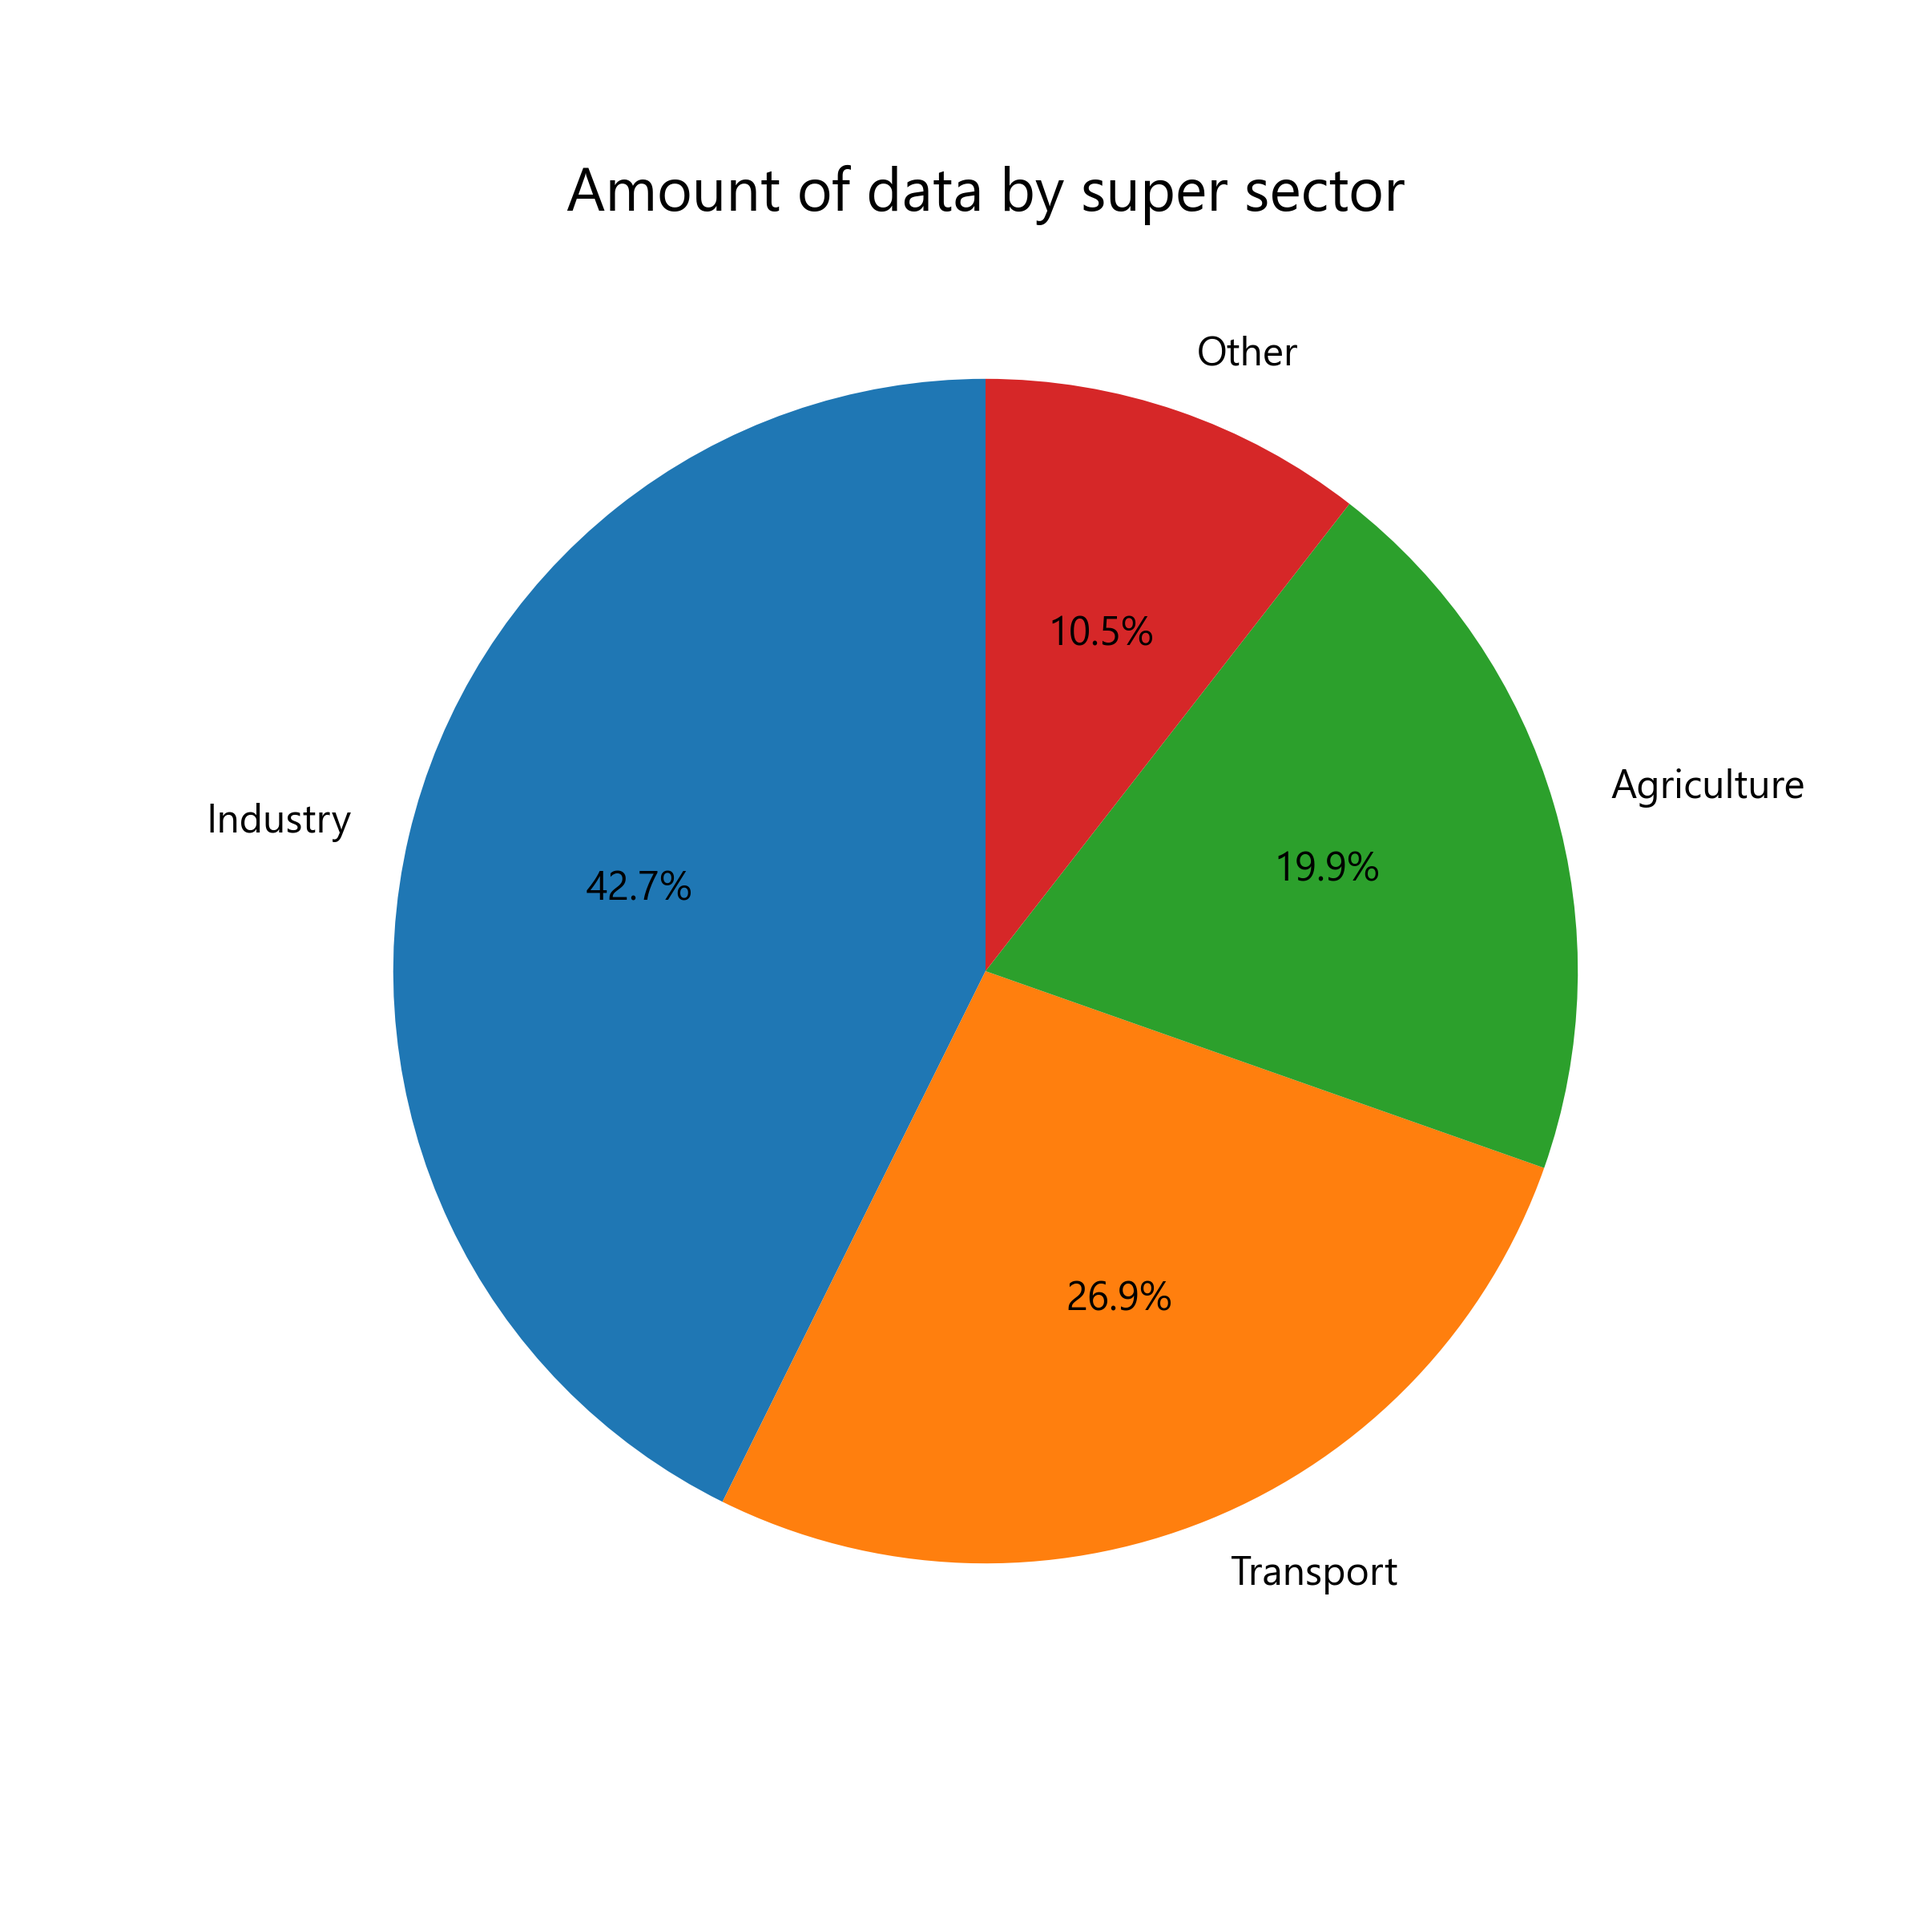
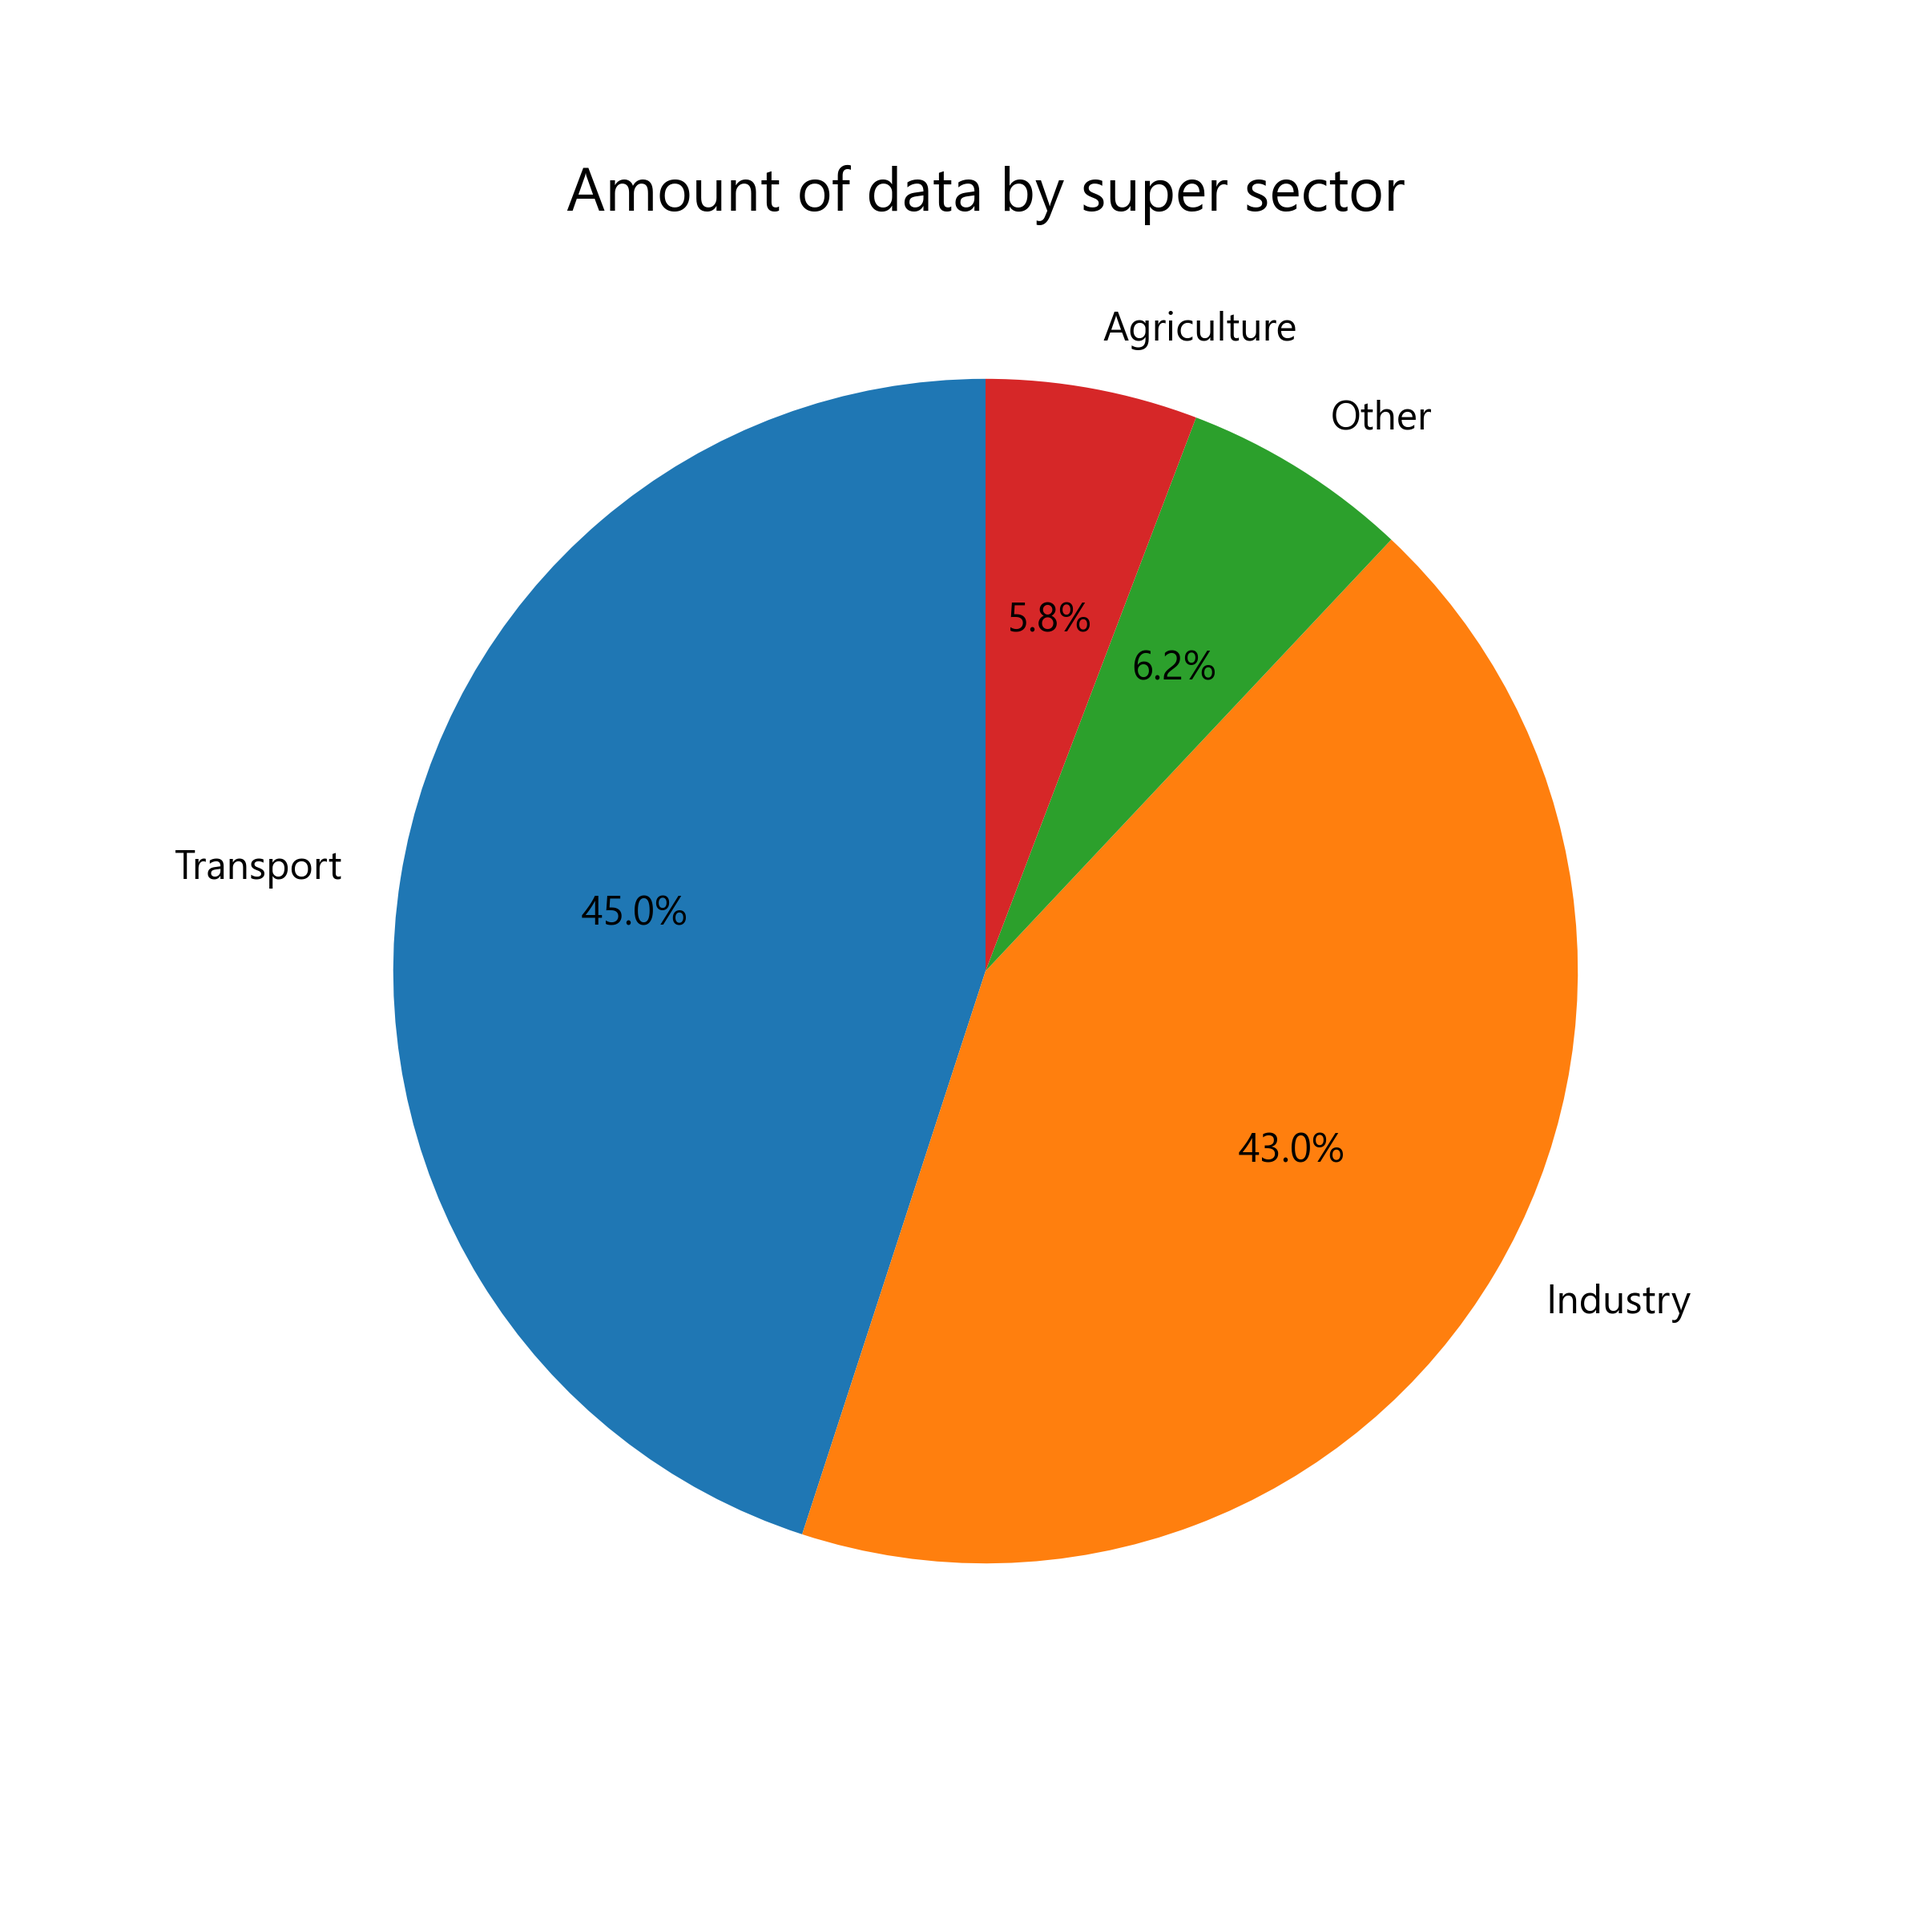
changes

diff --git a/cleaning_code/cleaning_pollutants.py b/cleaning_code/cleaning_pollutants.py
@@ -8,26 +8,21 @@
 import pandas as pd
 import matplotlib.pyplot as plt
 
-
-
-#%% Downloading the file 
+#%% Importing the file
 path =  r"/Users/emmasjostrom/Desktop/TEP4221/NEC_NFR19_2025_25.05.26.csv"
 
 df = pd.read_csv(path, sep="\t")   
 #test
-
 #%% Sorting out the relevant countries
 
 df_se = df[(df["countryCode"] == "SE") | (df["country"] == "Sweden")]
 df_de= df[(df["countryCode"] == "DE") | (df["country"] == "Germany")]
 df_gr= df[(df["countryCode"] == "GR") | (df["country"] == "Greece")]
 
-
 #%% Filter for SOx only
 df_se_sox_nox = df_se[df_se["pollutantName"].str.strip().str.upper().isin(["SOX", "NOX"])]
 df_de_sox_nox = df_de[df_de["pollutantName"].str.strip().str.upper().isin(["SOX", "NOX"])]
 df_gr_sox_nox = df_gr[df_gr["pollutantName"].str.strip().str.upper().isin(["SOX", "NOX"])]
-
 
 #%% sorting out the relevant columns and merging the dataframes
 cols = [ "country", "sectorName", "year", "pollutantName","value", "unit"]
@@ -38,11 +33,8 @@ df_sox_all = (
       .sort_values(["country", "year", "sectorName"])
 )
 
-#uploading the data to a csv file
+#storing data in a csv file
 df_sox_all.to_csv(r"/Users/emmasjostrom/Desktop/project/clean_dataset/pollutant_data.csv", index=False, encoding="utf-8")
-
-
-
 
 
 #%% add the path 

diff --git a/ploting_code/sector/dict_sector.py b/ploting_code/sector/dict_sector.py
@@ -21,12 +21,11 @@ dict_sectors = dict(zip(df_sectors["sectorName"], df_sectors["supersectorName"])
 #%% Create new column
 df_pol["supersectorName"] = df_pol["sectorName"].map(dict_sectors)
 
-#%% Create a pie chart
+#%% Create a pie chart - change to sum of emissions per supersector
 data_per_supersectors = df_pol["supersectorName"].value_counts()
 labels_supersectors = data_per_supersectors.index
 data_per_sectors = df_pol["sectorName"].value_counts()
 labels_sectors = data_per_sectors.index  
-
 # Pie chart for super sectors
 plt.figure(figsize=(8, 8))
 plt.pie(data_per_supersectors, labels=labels_supersectors, autopct='%1.1f%%', startangle=90, textprops={'fontfamily': 'Segoe UI', 'fontsize': 12})

diff --git a/ploting_code/ploting_code.py b/ploting_code/ploting_code.py
@@ -174,4 +174,3 @@ plt.savefig("../ploting_code/Plots/SOx_GDP_Greece.png", dpi=300)
 plt.show()
 
 # %%
-# %%
